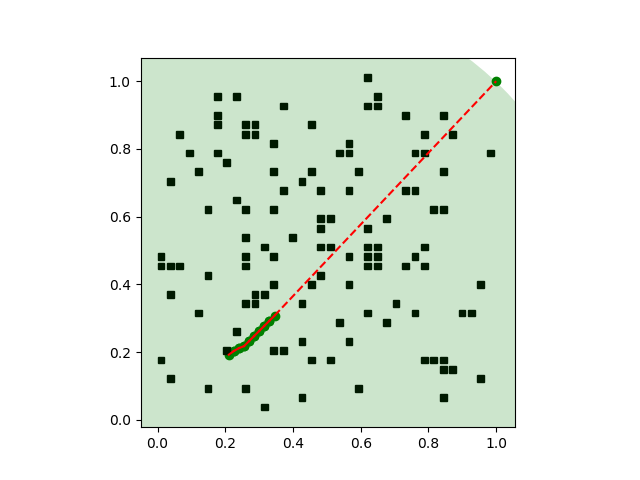
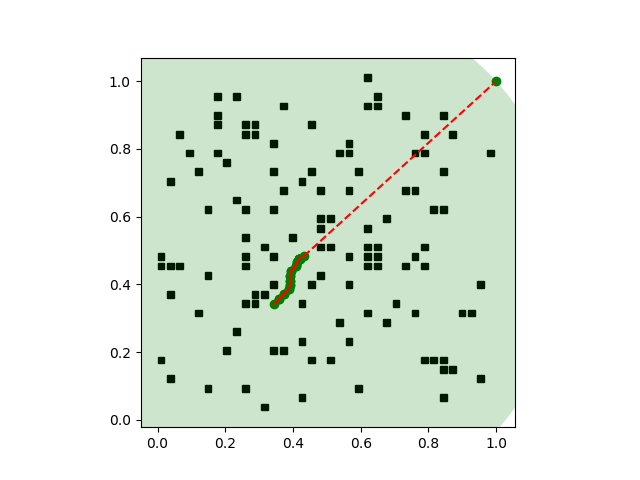
Control Value Label

diff --git a/src/model/general/Game.java b/src/model/general/Game.java
@@ -112,18 +112,18 @@ public class Game {
 		gameStats.setDestination(endP);
 
 		// Set the real total risk budget, not the UI risk budget
-		gameStats.setTotalRiskBudget(2d); // TODO: hardcoded risk budget
-		gameStats.setCurrentSurfacingBudget(7);
+		gameStats.setTotalRiskBudget(2.5d); // TODO: hardcoded risk budget
+		gameStats.setCurrentSurfacingBudget(6);
 	}
 	
 	private void checkFailure(Point2D lastStep) {
 		List<List<Point2D>> obstacles = environment.getGameStats().getPathStats().getObstacles();
-		System.out.println("LastStep position: " + lastStep.getX() + ", " + lastStep.getY());
+//		System.out.println("LastStep position: " + lastStep.getX() + ", " + lastStep.getY());
 		obstacles.forEach(obstacle -> {
-			System.out.println("New Obstacle");
-			obstacle.forEach(vertice -> {
-				System.out.println("Vertice position: " + vertice.getX() + ", " + vertice.getY());
-			});
+//			System.out.println("New Obstacle");
+//			obstacle.forEach(vertice -> {
+//				System.out.println("Vertice position: " + vertice.getX() + ", " + vertice.getY());
+//			});
 			if(detector.collide(lastStep, obstacle)) {
 				environment.getStatusManager().setFailure(true);
 			}

diff --git a/src/frontend/model/operation/control/ControlSlider.java b/src/frontend/model/operation/control/ControlSlider.java
@@ -1,9 +1,7 @@
 package frontend.model.operation.control;
 
-import com.jfoenix.controls.JFXSlider;
-
-import javafx.beans.binding.DoubleBinding;
 import javafx.beans.property.DoubleProperty;
+import javafx.scene.control.Slider;
 
 /**
  * Customized Slider that fits a specific {@code ControlType} Always gives a
@@ -13,8 +11,8 @@ import javafx.beans.property.DoubleProperty;
  * @author Feng
  *
  */
-public class ControlSlider extends JFXSlider {
-
+public class ControlSlider extends Slider {
+	private ControlType type;
 	/**
 	 * 
 	 * @param type
@@ -29,6 +27,7 @@ public class ControlSlider extends JFXSlider {
 	 */
 	public ControlSlider(ControlType type, double width, double height, DoubleProperty boundProperty) {
 		super(type.uiMin(), type.uiMax(), (type.uiMin() + type.uiMax()) / 2);
+		this.type = type;
 		this.setPrefSize(width, height);
 		
 		// notify new value after user finishes dragging
@@ -44,6 +43,10 @@ public class ControlSlider extends JFXSlider {
 				boundProperty.set(uiToAlgo(type, newv.doubleValue()));
 			}
 		});
+	}
+	
+	public ControlType getType() {
+		return type;
 	}
 
 	private double uiToAlgo(ControlType type, double uiValue) {

diff --git a/src/frontend/model/operation/control/ControlPanel.java b/src/frontend/model/operation/control/ControlPanel.java
@@ -45,8 +45,9 @@ public class ControlPanel extends Pane implements Observer<StatusManager>{
 			min.setFont(new Font(10));
 			Label max = new Label(""+type.uiMax());
 			max.setFont(new Font(10));
-			Label label = initLabel(type.label());
+			Label label = new Label(type.label());
 			ControlSlider slider = sliderFactory.getSlider(type, controlProperty.getControlProperty(type));
+			connectSliderToLabel(slider, label);
 			hbox.getChildren().addAll(min, slider, max);
 			vbox.getChildren().addAll(label, hbox);
 			sliderMaster.add(slider);
@@ -96,9 +97,10 @@ public class ControlPanel extends Pane implements Observer<StatusManager>{
 		executeButton.setDisable(false);
 	}
 	
-	private Label initLabel(String name) {
-		Label label = new Label(name);
-		return label;
+	private void connectSliderToLabel(ControlSlider slider, Label label) {
+		slider.valueProperty().addListener((obs, oldv, newv) -> {
+			label.setText(slider.getType().label() + " : " + (int)(newv.doubleValue()*10) / 10d);
+		});
 	}
 
 }

diff --git a/src/frontend/model/operation/control/ControlSliderFactory.java b/src/frontend/model/operation/control/ControlSliderFactory.java
@@ -13,6 +13,22 @@ public class ControlSliderFactory {
 	
 	public ControlSlider getSlider(ControlType controlType, DoubleProperty property) {
 		ControlSlider slider = new ControlSlider(controlType, width, height, property);
+		
+		// If control type is WayPoints, make the slider snap to UNIT
+		if(controlType.equals(ControlType.WayPoints)) {
+			slider.valueProperty().addListener((obs, oldValue, newValue) -> {
+				int nv;
+				double ov = newValue.doubleValue();
+				if(ov < 6)
+					nv = 4;
+				else if(ov >= 6 && ov < 10)
+					nv = 8;
+				else 
+					nv = 12;
+			    slider.setValue(nv);
+			});
+		}
+		
 		return slider;
 	}
 

diff --git a/src/frontend/model/operation/control/ControlType.java b/src/frontend/model/operation/control/ControlType.java
@@ -3,7 +3,7 @@ package frontend.model.operation.control;
 public enum ControlType {
 	ChanceConstraint("Step Risk(%)", "chance_constraint", 0d, 0.5d, 0, 2),
 	// MaxVelocity("Max Leg Length(mile)", "max_velocity", 0.05d, 0.2d, 5, 20);
-	WayPoints("# Waypoints per Leg", "waypoints", 4d, 12d, 4, 12); // 2 and 4
+	WayPoints("# Waypoints per Leg", "waypoints", 4d, 12d, 4, 12); 
 	
 	private String label;
 	private String key;
